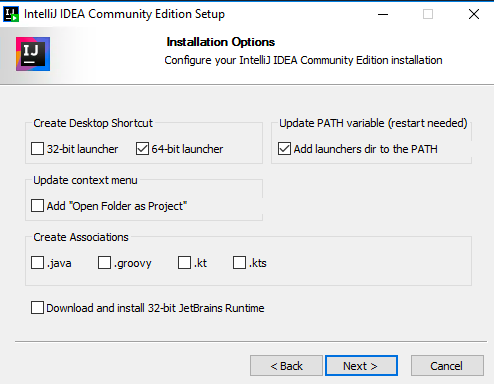
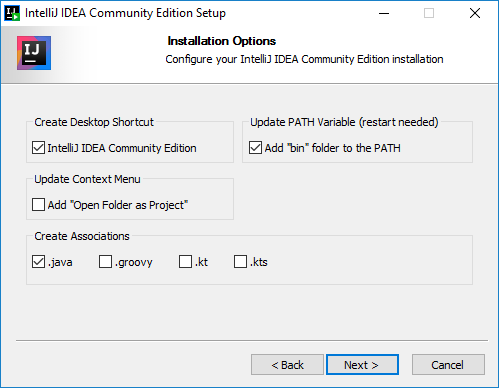
Update intellij.rst.

diff --git a/src/chapters/introduction-and-setup/intellij.rst b/src/chapters/introduction-and-setup/intellij.rst
@@ -19,7 +19,7 @@ Select your operating system and the Community version. Follow the installation
 prompts to select your settings. 
 
 When you reach the window asking for *Installation Options*, select the
-*64-bit launcher* and *Add launchers dir to the PATH* boxes. Click *Next*. If
+*Add "bin" folder to the PATH* box. Click *Next*. If
 you are asked for any other input, accept the default options.
 
 .. figure:: figures/ij-install-options.png
